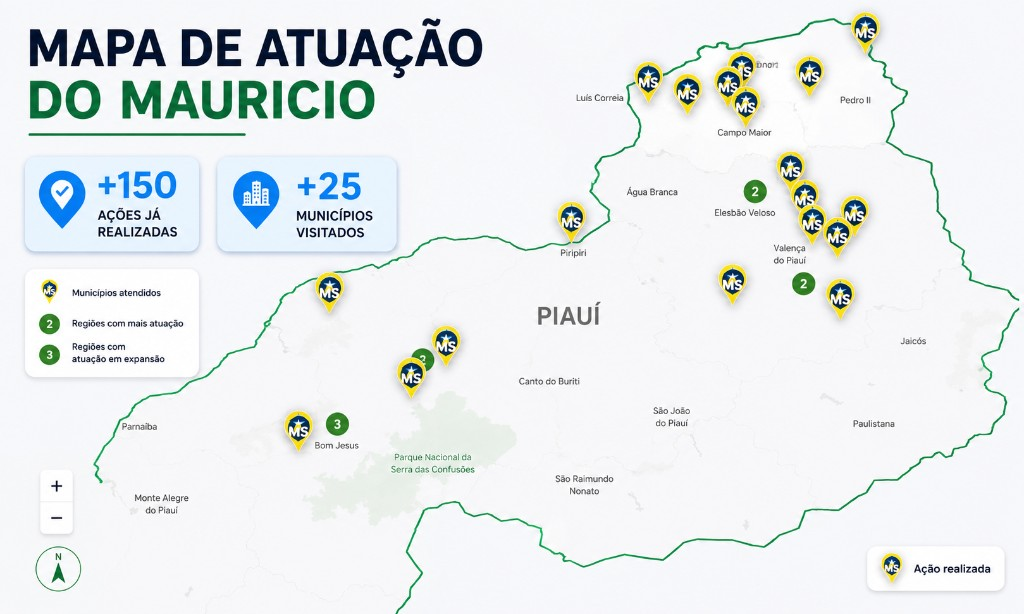
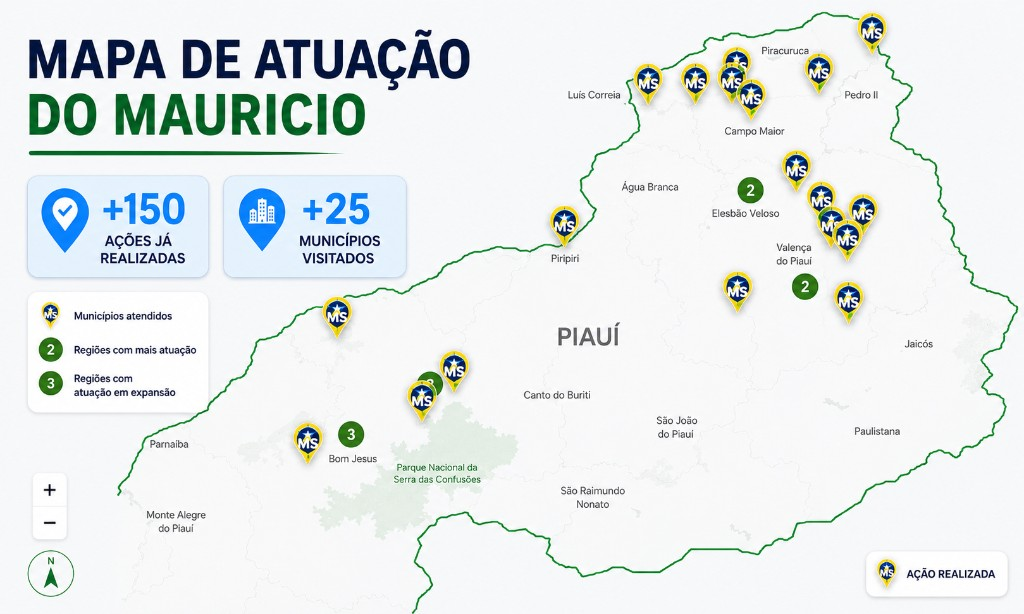
fix: carrossel do hero só no desktop e refinamentos visuais
Limita o slide automático a desktop, restaura o hero estático no mobile, atualiza as artes de propostas/mapa e suaviza a borda direita da foto com esfumaçado branco.

diff --git a/src/components/HeroCarousel.tsx b/src/components/HeroCarousel.tsx
@@ -18,6 +18,7 @@ interface HeroCarouselProps {
 
 const SLIDE_MS = 6500;
 const TRANSITION_MS = 900;
+const DESKTOP_MQ = "(min-width: 768px)";
 
 const PROMO_SLIDES = [
   {
@@ -34,6 +35,50 @@ const PROMO_SLIDES = [
   },
 ] as const;
 
+function HomeHeroSlide({
+  siteTitle,
+  heroLogo,
+  heroLogoFocus,
+  heroPhoto,
+  heroPhotoFocus,
+}: Omit<HeroCarouselProps, "social">) {
+  return (
+    <>
+      <div className="container-site relative pt-24 z-10 h-full">
+        <div className="flex justify-center pt-4 md:justify-start md:items-center md:min-h-[calc(98vh-6rem)] md:max-w-[50%]">
+          <Image
+            src={heroLogo}
+            alt={`${siteTitle} - Deputado Federal`}
+            width={700}
+            height={400}
+            className="w-full max-w-[88%] sm:max-w-[82%] md:max-w-[80%] object-contain"
+            style={getImageFocusStyles(heroLogoFocus, "contain")}
+            priority
+            unoptimized
+          />
+        </div>
+      </div>
+      <div className="hero-photo-fade">
+        <Image
+          src={heroPhoto}
+          alt={siteTitle}
+          width={609}
+          height={887}
+          className="hero-photo-fade-img"
+          style={getImageFocusStyles(heroPhotoFocus, "contain")}
+          priority
+          unoptimized
+        />
+      </div>
+      <span className="hero-photo-page-fade" aria-hidden />
+    </>
+  );
+}
+
+/**
+ * Desktop: carrossel automático (Maurício → Propostas → Mapa).
+ * Mobile: hero estático como antes (só logo + foto).
+ */
 export default function HeroCarousel({
   siteTitle,
   heroLogo,
@@ -45,91 +90,86 @@ export default function HeroCarousel({
   const total = 1 + PROMO_SLIDES.length;
   const [index, setIndex] = useState(0);
   const [paused, setPaused] = useState(false);
+  const [isDesktop, setIsDesktop] = useState(false);
+
+  useEffect(() => {
+    const mq = window.matchMedia(DESKTOP_MQ);
+    const apply = () => {
+      setIsDesktop(mq.matches);
+      if (!mq.matches) setIndex(0);
+    };
+    apply();
+    mq.addEventListener("change", apply);
+    return () => mq.removeEventListener("change", apply);
+  }, []);
 
   const goNext = useCallback(() => {
     setIndex((current) => (current + 1) % total);
   }, [total]);
 
   useEffect(() => {
-    if (paused) return;
+    if (!isDesktop || paused) return;
     if (window.matchMedia("(prefers-reduced-motion: reduce)").matches) return;
     const id = window.setInterval(goNext, SLIDE_MS);
     return () => window.clearInterval(id);
-  }, [goNext, paused]);
+  }, [goNext, paused, isDesktop]);
+
+  const homeProps = {
+    siteTitle,
+    heroLogo,
+    heroLogoFocus,
+    heroPhoto,
+    heroPhotoFocus,
+  };
 
   return (
     <section
-      className="hero-carousel"
+      className={`hero-carousel ${isDesktop ? "hero-carousel--desktop" : "hero-carousel--mobile"}`}
       style={{
         background: `radial-gradient(at top center, var(--color-hero-start) 0%, var(--color-hero-end) 100%)`,
       }}
-      onMouseEnter={() => setPaused(true)}
+      onMouseEnter={() => isDesktop && setPaused(true)}
       onMouseLeave={() => setPaused(false)}
-      onFocusCapture={() => setPaused(true)}
-      onBlurCapture={(event) => {
-        if (!event.currentTarget.contains(event.relatedTarget as Node | null)) {
-          setPaused(false);
-        }
-      }}
-      aria-roledescription="carrossel"
-      aria-label="Destaques iniciais"
+      aria-label="Destaque inicial"
     >
-      <div
-        className="hero-carousel-track"
-        style={{
-          transform: `translate3d(-${index * 100}%, 0, 0)`,
-          transitionDuration: `${TRANSITION_MS}ms`,
-        }}
-      >
-        {/* Slide 1 — Maurício + logo */}
-        <div className="hero-carousel-slide hero-carousel-slide--home" aria-hidden={index !== 0}>
-          <div className="container-site relative pt-24 z-10 h-full">
-            <div className="flex justify-center pt-4 md:justify-start md:items-center md:min-h-[calc(98vh-6rem)] md:max-w-[50%]">
-              <Image
-                src={heroLogo}
-                alt={`${siteTitle} - Deputado Federal`}
-                width={700}
-                height={400}
-                className="w-full max-w-[88%] sm:max-w-[82%] md:max-w-[80%] object-contain"
-                style={getImageFocusStyles(heroLogoFocus, "contain")}
-                priority
-                unoptimized
-              />
-            </div>
+      {isDesktop ? (
+        <div
+          className="hero-carousel-track"
+          style={{
+            transform: `translate3d(-${index * 100}%, 0, 0)`,
+            transitionDuration: `${TRANSITION_MS}ms`,
+          }}
+        >
+          <div className="hero-carousel-slide hero-carousel-slide--home" aria-hidden={index !== 0}>
+            <HomeHeroSlide {...homeProps} />
           </div>
-          <Image
-            src={heroPhoto}
-            alt={siteTitle}
-            width={609}
-            height={887}
-            className="absolute bottom-0 left-1/2 z-[1] h-[min(54vh,480px)] sm:h-[min(58vh,520px)] w-auto max-w-[95%] -translate-x-1/2 object-contain object-bottom pointer-events-none md:left-auto md:right-[6vw] lg:right-[10vw] md:translate-x-0 md:h-[min(96vh,920px)] md:max-w-none"
-            style={getImageFocusStyles(heroPhotoFocus, "contain")}
-            priority
-            unoptimized
-          />
-        </div>
 
-        {/* Slides promocionais */}
-        {PROMO_SLIDES.map((slide) => (
-          <div
-            key={slide.id}
-            className="hero-carousel-slide hero-carousel-slide--promo"
-            aria-hidden={index === 0 ? true : undefined}
-          >
-            <Link href={slide.href} className="hero-carousel-promo-link" aria-label={slide.alt}>
-              <Image
-                src={slide.src}
-                alt={slide.alt}
-                fill
-                className="object-contain md:object-cover object-center"
-                sizes="100vw"
-                unoptimized
-                priority={false}
-              />
-            </Link>
-          </div>
-        ))}
-      </div>
+          {PROMO_SLIDES.map((slide) => (
+            <div
+              key={slide.id}
+              className="hero-carousel-slide hero-carousel-slide--promo"
+              aria-hidden={index === 0 ? true : undefined}
+            >
+              <Link href={slide.href} className="hero-carousel-promo-link" aria-label={slide.alt}>
+                <Image
+                  src={slide.src}
+                  alt={slide.alt}
+                  fill
+                  className="object-contain md:object-cover object-center"
+                  sizes="100vw"
+                  unoptimized
+                  priority={false}
+                />
+                <span className="hero-promo-fade-edge" aria-hidden />
+              </Link>
+            </div>
+          ))}
+        </div>
+      ) : (
+        <div className="hero-carousel-slide hero-carousel-slide--home hero-carousel-slide--static">
+          <HomeHeroSlide {...homeProps} />
+        </div>
+      )}
 
       <div className="absolute bottom-0 left-0 right-0 z-20 social-bar-wrap">
         <div className="flex justify-center">

diff --git a/src/app/globals.css b/src/app/globals.css
@@ -877,12 +877,9 @@ path.animate-\[dash_10s_linear_infinite\] {
   overflow: hidden;
 }
 
-.hero-carousel-slide--home {
-  background: radial-gradient(
-    at top center,
-    var(--color-hero-start) 0%,
-    var(--color-hero-end) 100%
-  );
+.hero-carousel-slide--static {
+  width: 100%;
+  height: 98vh;
 }
 
 .hero-carousel-slide--promo {
@@ -900,9 +897,162 @@ path.animate-\[dash_10s_linear_infinite\] {
   pointer-events: none;
 }
 
+/* Foto do hero: máscara leve só na beirada */
+.hero-photo-fade {
+  position: absolute;
+  bottom: 0;
+  left: 50%;
+  z-index: 1;
+  height: min(54vh, 480px);
+  width: auto;
+  max-width: 95%;
+  transform: translateX(-50%);
+  pointer-events: none;
+}
+
+.hero-photo-fade-img {
+  display: block;
+  height: 100%;
+  width: auto;
+  max-width: 100%;
+  object-fit: contain;
+  object-position: bottom;
+  -webkit-mask-image: linear-gradient(
+    to right,
+    #000 0%,
+    #000 93%,
+    rgba(0, 0, 0, 0.4) 98%,
+    transparent 100%
+  );
+  mask-image: linear-gradient(
+    to right,
+    #000 0%,
+    #000 93%,
+    rgba(0, 0, 0, 0.4) 98%,
+    transparent 100%
+  );
+}
+
+/*
+  Esfumaçado branco: começa quase só na beira da foto
+  e vai até o limite direito da página (preenche o vão).
+*/
+.hero-photo-page-fade {
+  position: absolute;
+  top: 0;
+  right: 0;
+  bottom: 0;
+  z-index: 2;
+  width: max(12vw, 64px);
+  pointer-events: none;
+  background: linear-gradient(
+    to right,
+    transparent 0%,
+    rgba(255, 255, 255, 0.25) 18%,
+    rgba(245, 245, 245, 0.75) 48%,
+    var(--color-hero-end, #d3d3d3) 100%
+  );
+  backdrop-filter: blur(6px);
+  -webkit-backdrop-filter: blur(6px);
+}
+
+/* Slides promo: mesmo tratamento na lateral direita */
+.hero-promo-fade-edge {
+  position: absolute;
+  top: 0;
+  right: 0;
+  bottom: 0;
+  width: min(10%, 80px);
+  z-index: 2;
+  background: linear-gradient(
+    to right,
+    transparent 0%,
+    rgba(255, 255, 255, 0.3) 35%,
+    rgba(250, 249, 246, 0.9) 70%,
+    #faf9f6 100%
+  );
+  backdrop-filter: blur(8px);
+  -webkit-backdrop-filter: blur(8px);
+  pointer-events: none;
+}
+
+.hero-carousel-slide--promo .hero-carousel-promo-link img {
+  -webkit-mask-image: linear-gradient(
+    to right,
+    #000 0%,
+    #000 90%,
+    rgba(0, 0, 0, 0.4) 97%,
+    transparent 100%
+  );
+  mask-image: linear-gradient(
+    to right,
+    #000 0%,
+    #000 90%,
+    rgba(0, 0, 0, 0.4) 97%,
+    transparent 100%
+  );
+}
+
+@media (min-width: 768px) {
+  .hero-photo-fade {
+    left: auto;
+    right: 6vw;
+    transform: none;
+    height: min(96vh, 920px);
+    max-width: none;
+  }
+
+  /* 6vw de vão + ~28px só encostando na foto */
+  .hero-photo-page-fade {
+    width: calc(6vw + 28px);
+  }
+}
+
+@media (min-width: 1024px) {
+  .hero-photo-fade {
+    right: 10vw;
+  }
+
+  .hero-photo-page-fade {
+    width: calc(10vw + 28px);
+  }
+}
+
 @media (max-width: 767px) {
   .hero-carousel-slide--promo {
     padding-bottom: 5.5rem;
+  }
+
+  .hero-photo-fade {
+    height: min(54vh, 480px);
+  }
+
+  /* Mobile: pouco sobre a foto, cobre até a borda direita */
+  .hero-photo-page-fade {
+    width: max(14vw, 48px);
+    backdrop-filter: blur(4px);
+    -webkit-backdrop-filter: blur(4px);
+  }
+
+  .hero-promo-fade-edge {
+    width: min(10%, 40px);
+  }
+
+  .hero-photo-fade-img {
+    -webkit-mask-image: linear-gradient(
+      to right,
+      #000 0%,
+      #000 95%,
+      rgba(0, 0, 0, 0.45) 99%,
+      transparent 100%
+    );
+    mask-image: linear-gradient(
+      to right,
+      #000 0%,
+      #000 95%,
+      rgba(0, 0, 0, 0.45) 99%,
+      transparent 100%
+    );
   }
 }
 
